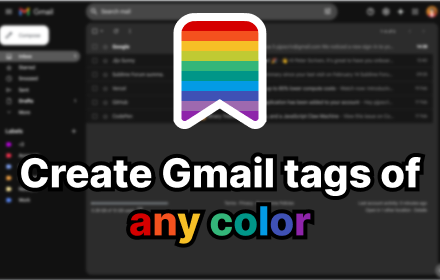
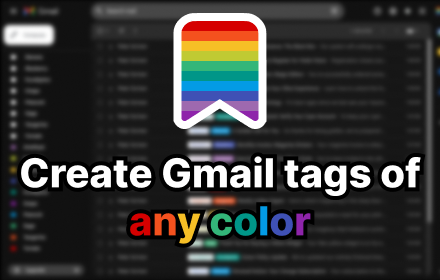
Update promo pictures, remember checkbox state between modals.

diff --git a/src/content.js b/src/content.js
@@ -8,7 +8,8 @@ const TBODY_QUERY = "[data-bg-color] > table > tbody";
 const CURRENT_LABEL_QUERY = "[role=menu] > [role=menuitem] > div > span > span";
 const FIRST_OPEN_DELAY = 50;
 
-
+// Variable
+let checkboxValue = false; // Default value for the "Auto-set text color" checkbox
 
 // ---------------------------- HELPER FUNCTIONS ---------------------------- //
 /* Determine if a color is dark or light. From: https://stackoverflow.com/a/41491220/13762264 */
@@ -113,6 +114,7 @@ function transformModal(node) {
   checkboxLabelEl.classList.add("pure-material-checkbox");
   checkboxInputEl.type = "checkbox";
   checkboxInputEl.checked = false;
+  checkboxInputEl.addEventListener("change", (e) => { checkboxValue = !!e.target.checked; });
   // TODO: Find a way to change this by language
   checkboxSpanEl.textContent = "Auto-set text color";
   checkboxLabelEl.appendChild(checkboxInputEl);
@@ -202,10 +204,12 @@ function transformModal(node) {
   tbody.appendChild(newRow1Node);
 
   // 3. Add text color checkbox & enable
+  checkboxInputEl.checked = checkboxValue;
   const newRow2Node = document.createElement("tr");
   const checkboxColNode = document.createElement("td");
   checkboxColNode.colSpan = 3;
   checkboxColNode.style = "padding-top: 24px; text-align: center;";
+  
   newRow2Node.appendChild(checkboxColNode);
   checkboxColNode.appendChild(checkboxLabelEl);
   tbody.appendChild(newRow2Node);

diff --git a/README.md b/README.md
@@ -14,7 +14,6 @@
       <img src="https://img.shields.io/amo/users/gmail-label-colorizer?style=flat-square&logo=firefox&logoColor=white&label=Firefox%20users&color=%23FF7139" alt="Firefox add-ons">
     </a>
   </picture>
-  <!-- </br></brr> -->
 </p>
 
 A simple extension for making any-color labels in Gmail. 
@@ -29,12 +28,13 @@ Post any issues or feature requests [here](https://github.com/pjpscriv/gmail-lab
 Launch the extension using Mozilla's web-ext
 
 ```sh
-web-ext run --target chromium --source-dir ./src/
+npm run test:firefox
+npm run test:chrome
 ```
 
 
 ### Package
 
 ```sh
-web-ext build --source-dir ./src/ --artifacts-dir=./dist
+npm run package
 ```
